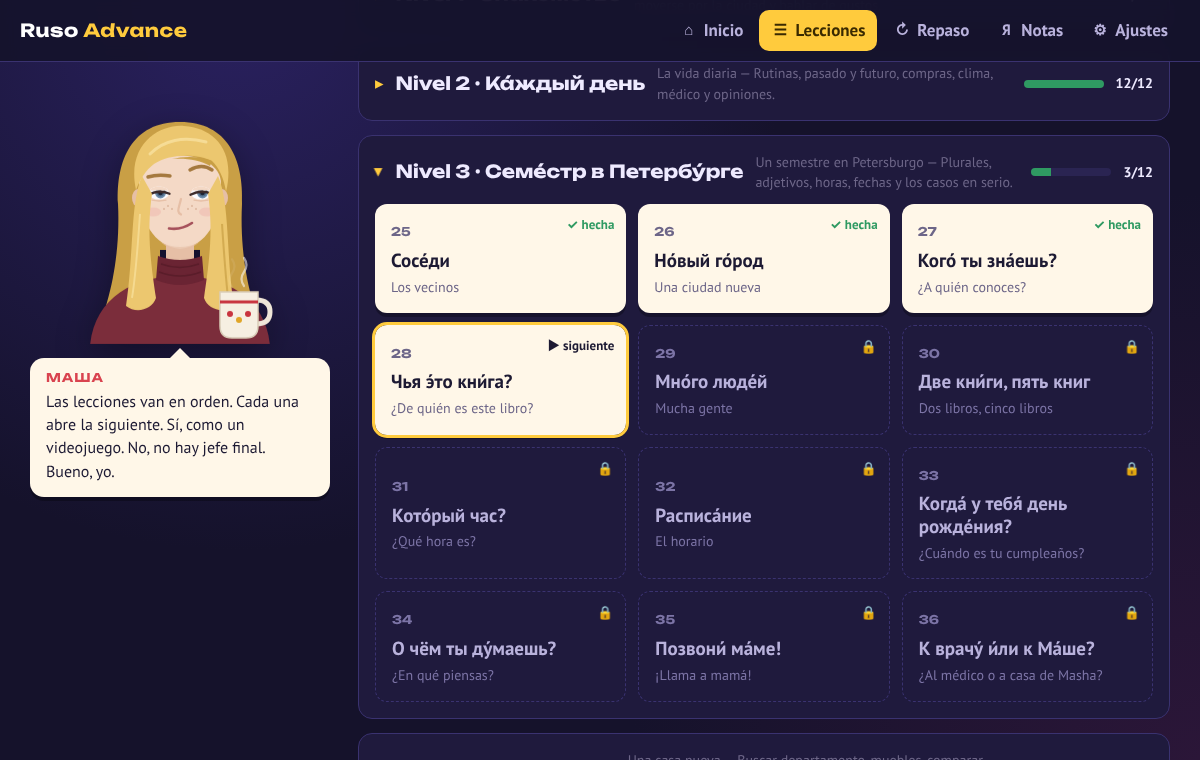
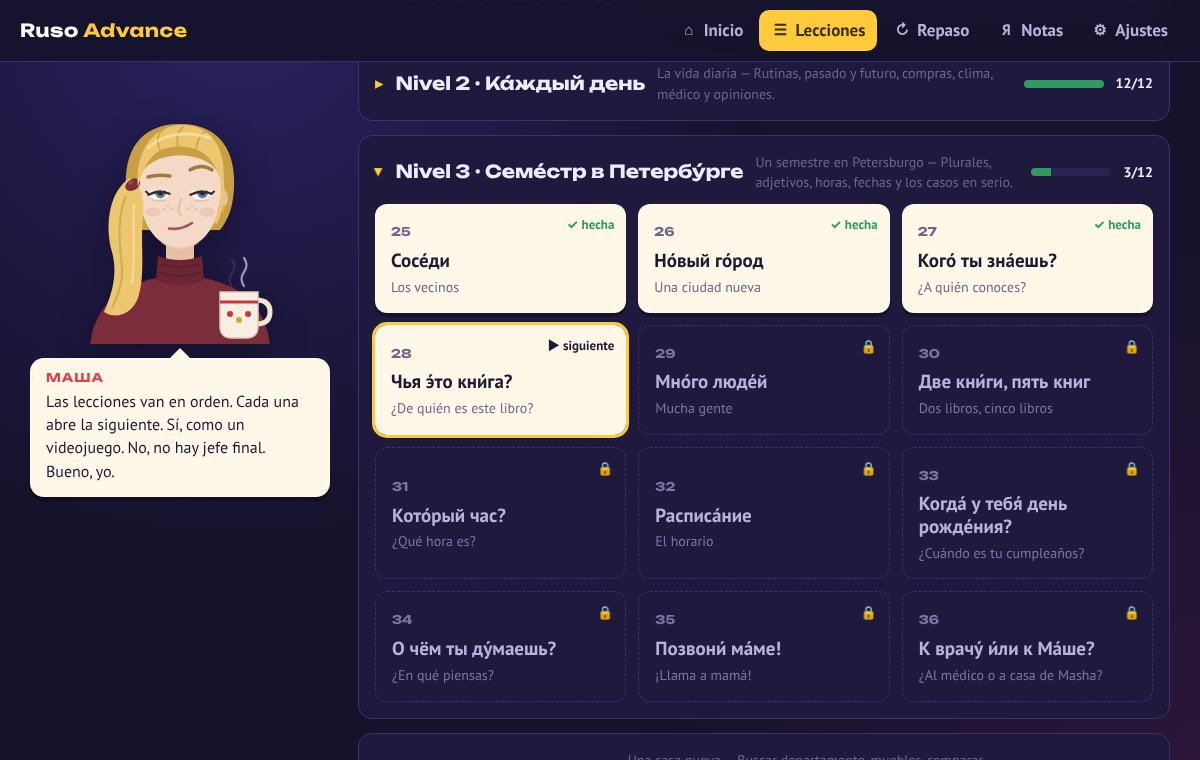
Ruso Advance: Masha con el pelo recogido en una cola
Claude-Session: https://claude.ai/code/session_01ELRgMSVJXtUYBzNdrdtij5

Changed region(s): [[0.0925, 0.1513, 0.2158, 0.4237]]

diff --git a/ruso-advance/masha.js b/ruso-advance/masha.js
@@ -64,8 +64,8 @@ const Masha = (() => {
       '<path d="M160 208 h38 v34 q0 12 -12 12 h-14 q-12 0 -12 -12 z" fill="#f6efe2" stroke="#d9cdb8" stroke-width="1.5"/>' +
       '<path d="M160 218 h38" stroke="#c8343f" stroke-width="3"/><circle cx="170" cy="230" r="3" fill="#c8343f"/><circle cx="179" cy="236" r="3" fill="#e0a526"/><circle cx="188" cy="230" r="3" fill="#c8343f"/></g>';
     return '<svg class="masha-svg" viewBox="0 0 240 260" xmlns="http://www.w3.org/2000/svg" role="img" aria-label="Masha">' +
-      /* pelo de atrás */
-      '<path d="M120 38 C72 38 56 76 58 120 C60 160 54 196 46 222 C66 232 92 228 100 216 L100 166 L140 166 L140 216 C148 228 174 232 194 222 C186 196 180 160 182 120 C184 76 168 38 120 38 Z" fill="' + HAIR_SH + '"/>' +
+      /* pelo de atrás: recogido, solo asoma alrededor de la cabeza */
+      '<path d="M120 40 C78 40 64 70 66 104 C67 124 72 136 80 146 L160 146 C168 136 173 124 174 104 C176 70 162 40 120 40 Z" fill="' + HAIR_SH + '"/>' +
       /* cuello y cuerpo */
       '<path d="M106 146 h28 v40 h-28 z" fill="' + SKIN_SH + '"/>' +
       '<path d="M30 262 C34 214 74 192 120 192 C166 192 206 214 210 262 Z" fill="#7b2d3b"/>' +
@@ -81,14 +81,16 @@ const Masha = (() => {
       '<path d="M121 115 C119 124 116 128 121 130.5" fill="none" stroke="' + SKIN_SH + '" stroke-width="2.2" stroke-linecap="round"/>' +
       '<g fill="#c99a7e" opacity=".55"><circle cx="108" cy="122" r="1"/><circle cx="112" cy="125" r="1"/><circle cx="104" cy="125" r="1"/><circle cx="132" cy="122" r="1"/><circle cx="128" cy="125" r="1"/><circle cx="136" cy="125" r="1"/></g>' +
       '<g class="m-face">' + face(expr || 'neutral') + '</g>' +
-      /* mechones sobre los hombros */
-      '<path d="M82 92 C70 120 74 170 66 222 C76 230 92 226 96 214 C92 186 86 150 92 110 Z" fill="' + HAIR + '"/>' +
-      '<path d="M158 92 C170 120 166 170 174 222 C164 230 148 226 144 214 C148 186 154 150 148 110 Z" fill="' + HAIR + '"/>' +
-      '<path d="M80 130 C78 160 76 190 72 214" fill="none" stroke="' + HAIR_HI + '" stroke-width="2" opacity=".6"/><path d="M162 140 C164 170 166 196 168 214" fill="none" stroke="' + HAIR_SH + '" stroke-width="2" opacity=".7"/>' +
-      /* flequillo de lado */
-      '<path d="M76 106 C66 60 100 40 124 42 C154 44 176 66 166 108 C164 94 159 84 152 77 C136 69 108 70 94 80 C86 86 80 95 76 106 Z" fill="' + HAIR + '"/>' +
-      '<path d="M152 77 C140 72 124 72 112 75 C126 74 140 76 150 82 Z" fill="' + HAIR_SH + '"/>' +
-      '<path d="M90 70 C104 56 124 52 146 58" fill="none" stroke="' + HAIR_HI + '" stroke-width="3" stroke-linecap="round" opacity=".7"/>' +
+      /* cola de caballo sobre el hombro, con su gomita */
+      '<path d="M70 94 C50 106 44 140 52 168 C58 190 52 210 44 228 C56 236 72 230 78 214 C86 190 80 160 83 132 C85 116 82 102 70 94 Z" fill="' + HAIR + '"/>' +
+      '<path d="M66 112 C56 136 60 162 62 184 C63 198 58 212 52 224" fill="none" stroke="' + HAIR_SH + '" stroke-width="2" opacity=".7"/>' +
+      '<path d="M74 120 C72 146 76 170 72 200" fill="none" stroke="' + HAIR_HI + '" stroke-width="2" opacity=".7"/>' +
+      '<ellipse cx="72" cy="102" rx="8" ry="5.5" transform="rotate(-30 70 100)" fill="#7b2d3b"/><ellipse cx="70" cy="100" rx="3" ry="1.6" transform="rotate(-30 68 98)" fill="#a04456"/>' +
+      /* pelo peinado hacia atrás, con la frente despejada y un mechón suelto */
+      '<path d="M78 104 C74 62 98 41 122 41 C150 41 168 62 163 104 C160 88 152 74 140 67 C128 61 111 61 99 67 C88 74 81 88 78 104 Z" fill="' + HAIR + '"/>' +
+      '<path d="M100 66 C96 56 98 49 104 45 M118 63 C116 54 118 47 123 43 M136 65 C138 56 140 50 146 47" fill="none" stroke="' + HAIR_SH + '" stroke-width="1.8" stroke-linecap="round" opacity=".8"/>' +
+      '<path d="M88 64 C102 50 126 46 150 54" fill="none" stroke="' + HAIR_HI + '" stroke-width="3" stroke-linecap="round" opacity=".7"/>' +
+      '<path d="M159 84 C166 102 163 122 156 138" fill="none" stroke="' + HAIR + '" stroke-width="3.2" stroke-linecap="round"/>' +
       mug + '</svg>';
   }
 

diff --git a/ruso-advance/sw.js b/ruso-advance/sw.js
@@ -1,6 +1,6 @@
 /* Ruso Advance — service worker: guarda la app en el teléfono para usarla sin conexión. */
 const PREFIX = 'ruso-advance-';
-const CACHE = PREFIX + 'v2';
+const CACHE = PREFIX + 'v3';
 const AUDIO = PREFIX + 'audio';
 const SHELL = ['./', 'index.html', 'styles.css', 'masha.js', 'data.js', 'app.js', 'manifest.webmanifest', 'avatar/pixel.js',
   'lecciones/n03.js', 'lecciones/n04.js', 'lecciones/n05.js', 'lecciones/n06.js', 'lecciones/n07.js', 'lecciones/n08.js', 'lecciones/n09.js', 'lecciones/n10.js',

diff --git a/ruso-advance/tools/pixellab_avatar.py b/ruso-advance/tools/pixellab_avatar.py
@@ -26,8 +26,8 @@ CARA = (36, 22, 92, 78)  # zona de la cara que se repinta en cada expresión
 AQUI = os.path.dirname(os.path.abspath(__file__))
 SALIDA = os.path.join(AQUI, '..', 'avatar')
 
-BASE = ('pixel art bust portrait of Masha, a young Russian woman, long straight blonde hair '
-        'past her shoulders, side-swept bangs, gray-blue eyes, light freckles, burgundy turtleneck '
+BASE = ('pixel art bust portrait of Masha, a young Russian woman, blonde hair pulled back '
+        'into a ponytail resting over her shoulder, forehead uncovered, one loose strand, gray-blue eyes, light freckles, burgundy turtleneck '
         'sweater, holding a white tea mug with a red folk pattern, front view, centered, '
         'warm soft lighting, clean outline')
 EXPRESIONES = {

diff --git a/ruso-advance/README.md b/ruso-advance/README.md
@@ -46,7 +46,7 @@ Para regenerarlos hace falta Python con `onnxruntime`, `espeak-ng` y los modelos
 
 ## Masha
 
-Masha es rubia, de pelo medio largo, cínica y amable. Está dibujada en SVG con ocho expresiones, parpadea y mueve la boca cuando habla.
+Masha es rubia, lleva el pelo recogido en una cola sobre el hombro, y es cínica y amable. Está dibujada en SVG con ocho expresiones, parpadea y mueve la boca cuando habla.
 
 Para usar un avatar en pixel art hecho con [PixelLab](https://www.pixellab.ai): `PIXELLAB_API_KEY=… python3 tools/pixellab_avatar.py`. El script genera una Masha base y repinta la cara para cada expresión; la app la usa automáticamente en cuanto existe `avatar/pixel.js` con las imágenes.
 
